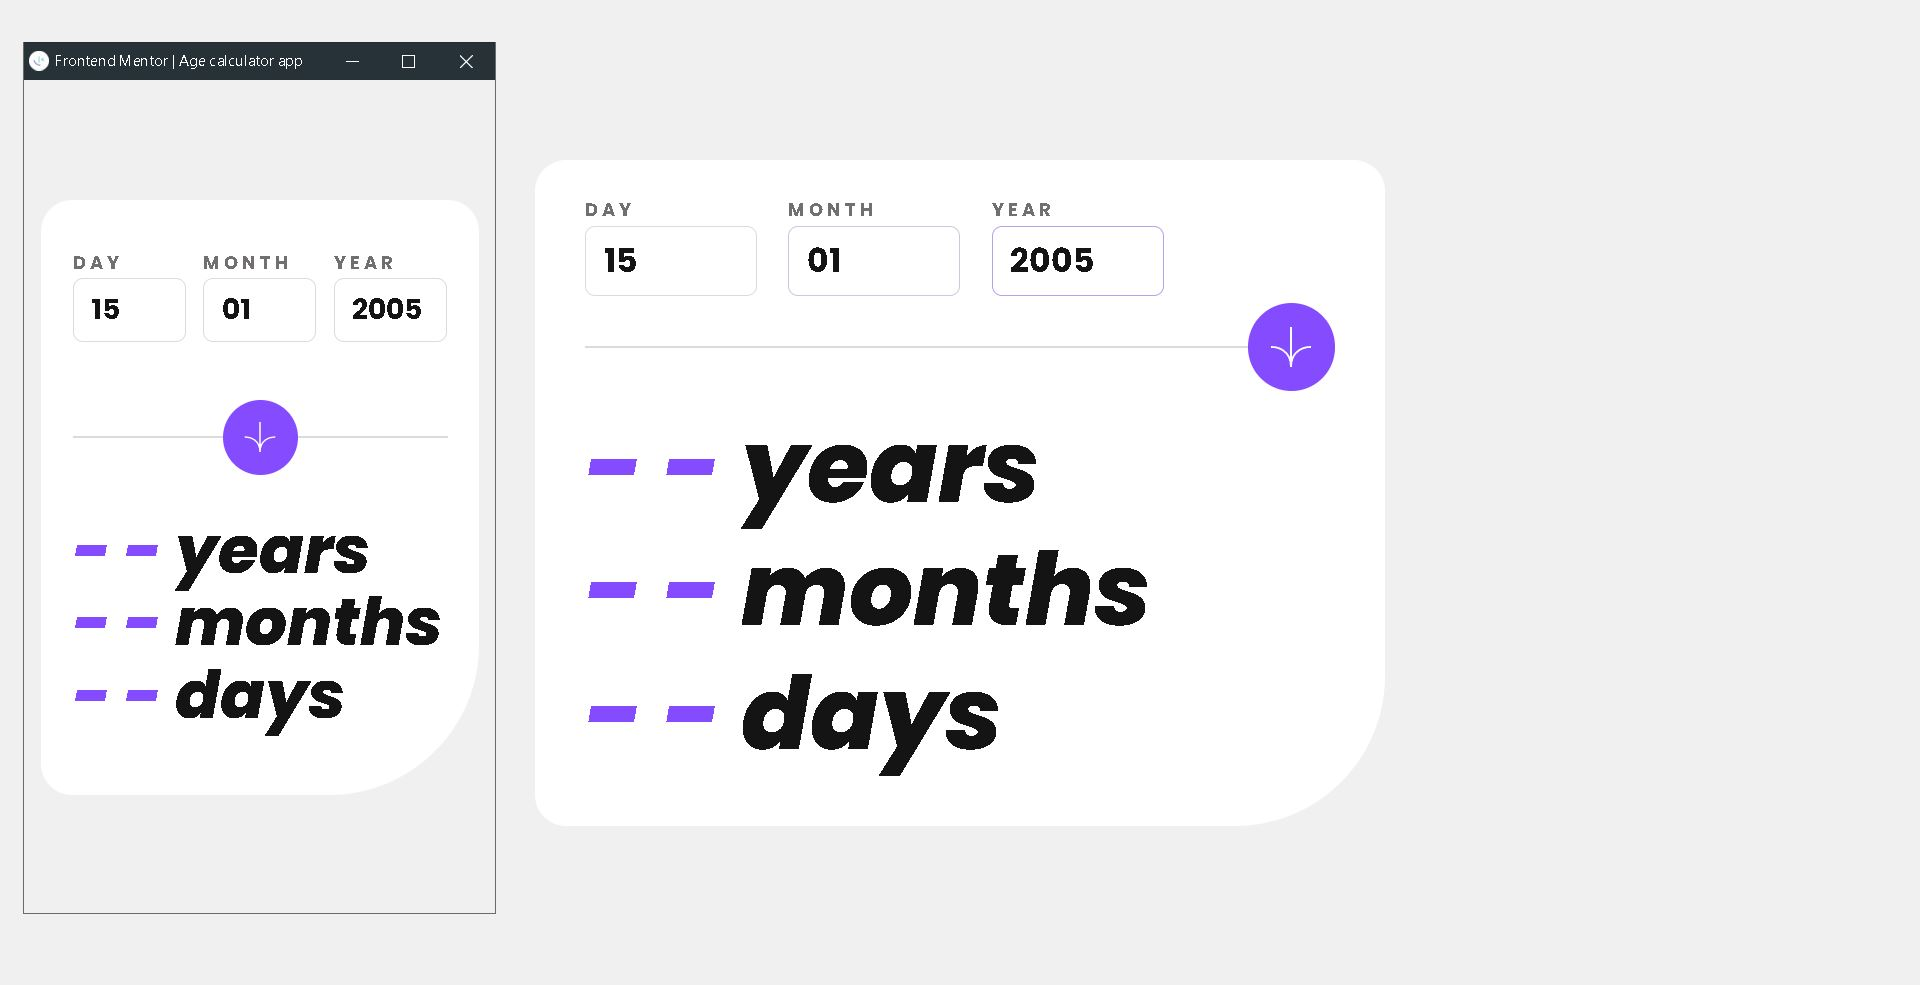
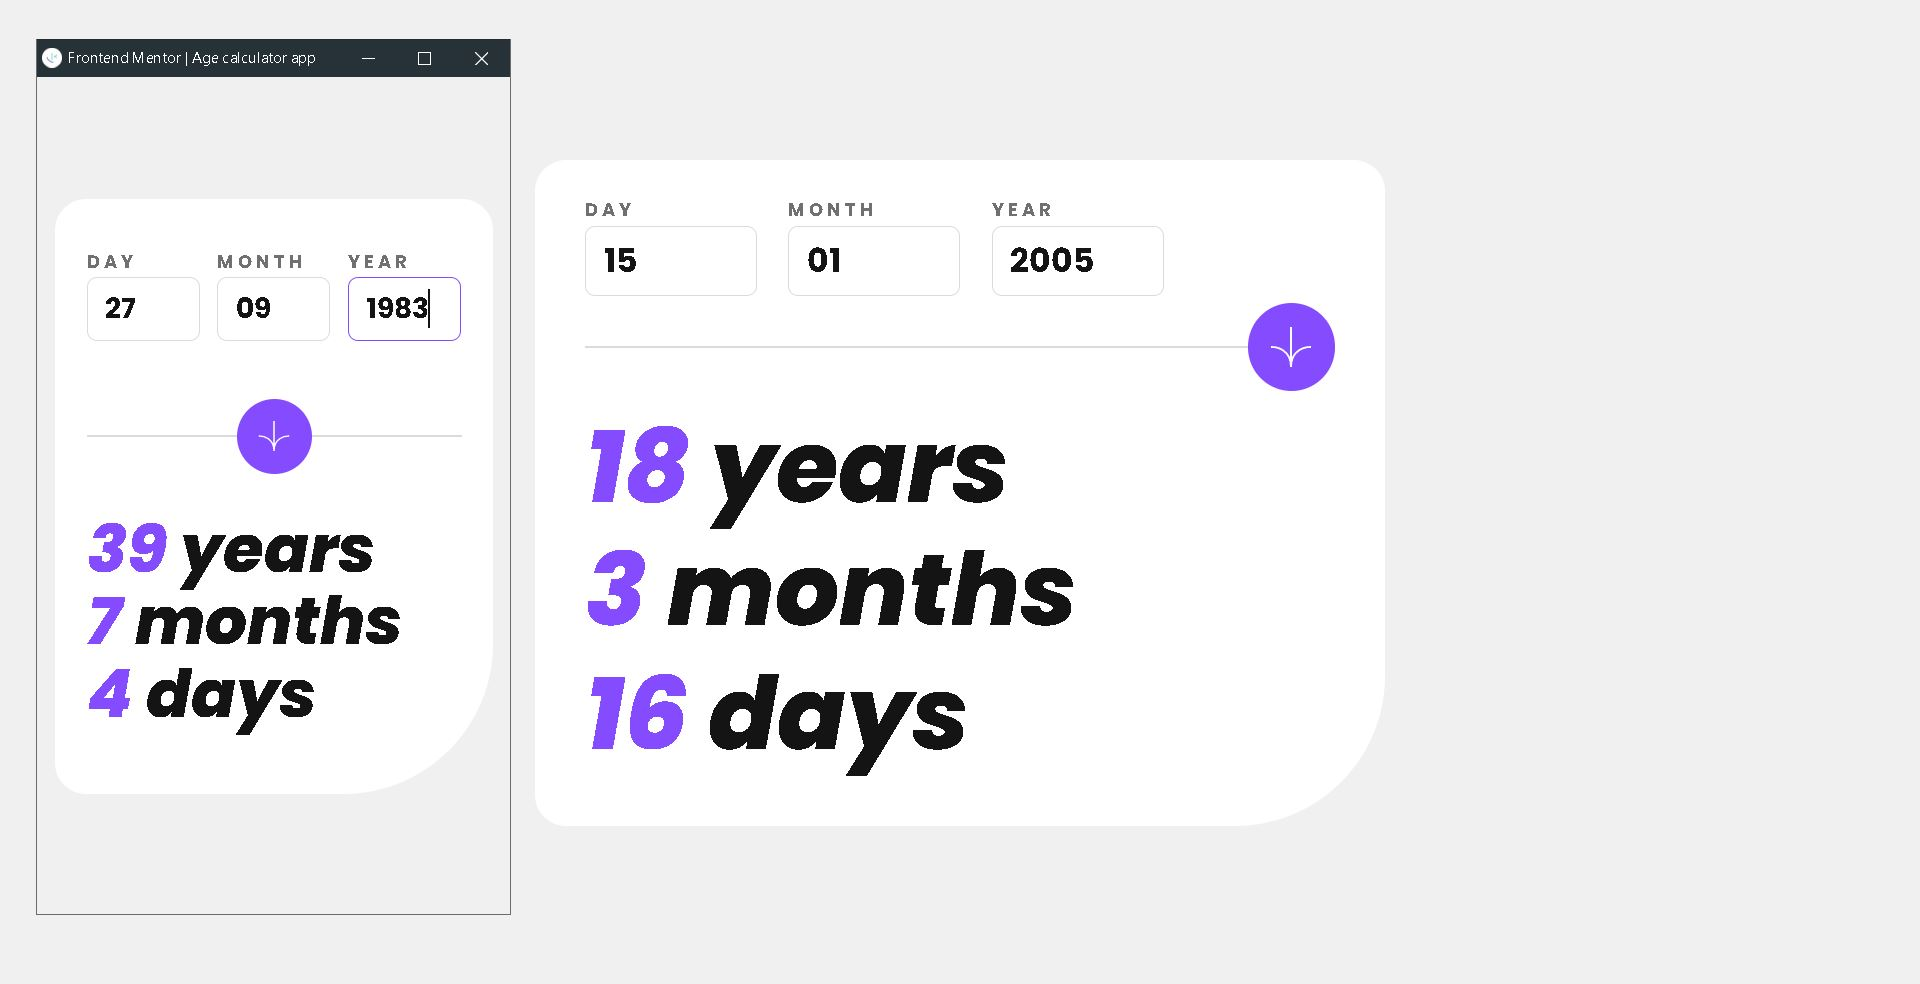
screenshot & dateCalcs fix

diff --git a/005. age-calculator-app-main/script.js b/005. age-calculator-app-main/script.js
@@ -83,8 +83,8 @@ function validadeData(e){ // recebe o evento como argumento
             days = timeDay - inputDay;
           }
           else{
-            months = timeMonth - inputMonth;
-            days = timeDay - inputDay + 31;
+            months = timeMonth - inputMonth - 1;
+            days = timeDay - inputDay + 30;
           }
       }
 
@@ -97,7 +97,7 @@ function validadeData(e){ // recebe o evento como argumento
         else{
           years = timeYear - inputYear - 1;
           months = 11;
-          days = timeDay - inputDay + 31;
+          days = timeDay - inputDay + 30;
         }
       }
 
@@ -108,8 +108,8 @@ function validadeData(e){ // recebe o evento como argumento
           days = timeDay - inputDay;
         }
         else{
-          months = timeMonth - inputMonth + 12 - 1;
-          days = timeDay - inputDay + 31;
+          months = timeMonth - inputMonth + 12 - 1; // -1 mês por conta do dia ser depois do dia do aniv, logo é -1 mês e considera-se os dias restantes.
+          days = timeDay - inputDay + 30;
         } 
       }
 

diff --git a/005. age-calculator-app-main/styles/style.css b/005. age-calculator-app-main/styles/style.css
@@ -37,8 +37,6 @@ body{
   padding: 40px 25px;
 }
 
-
-
 .input-container{
   width: 100%;
   display: flex;
